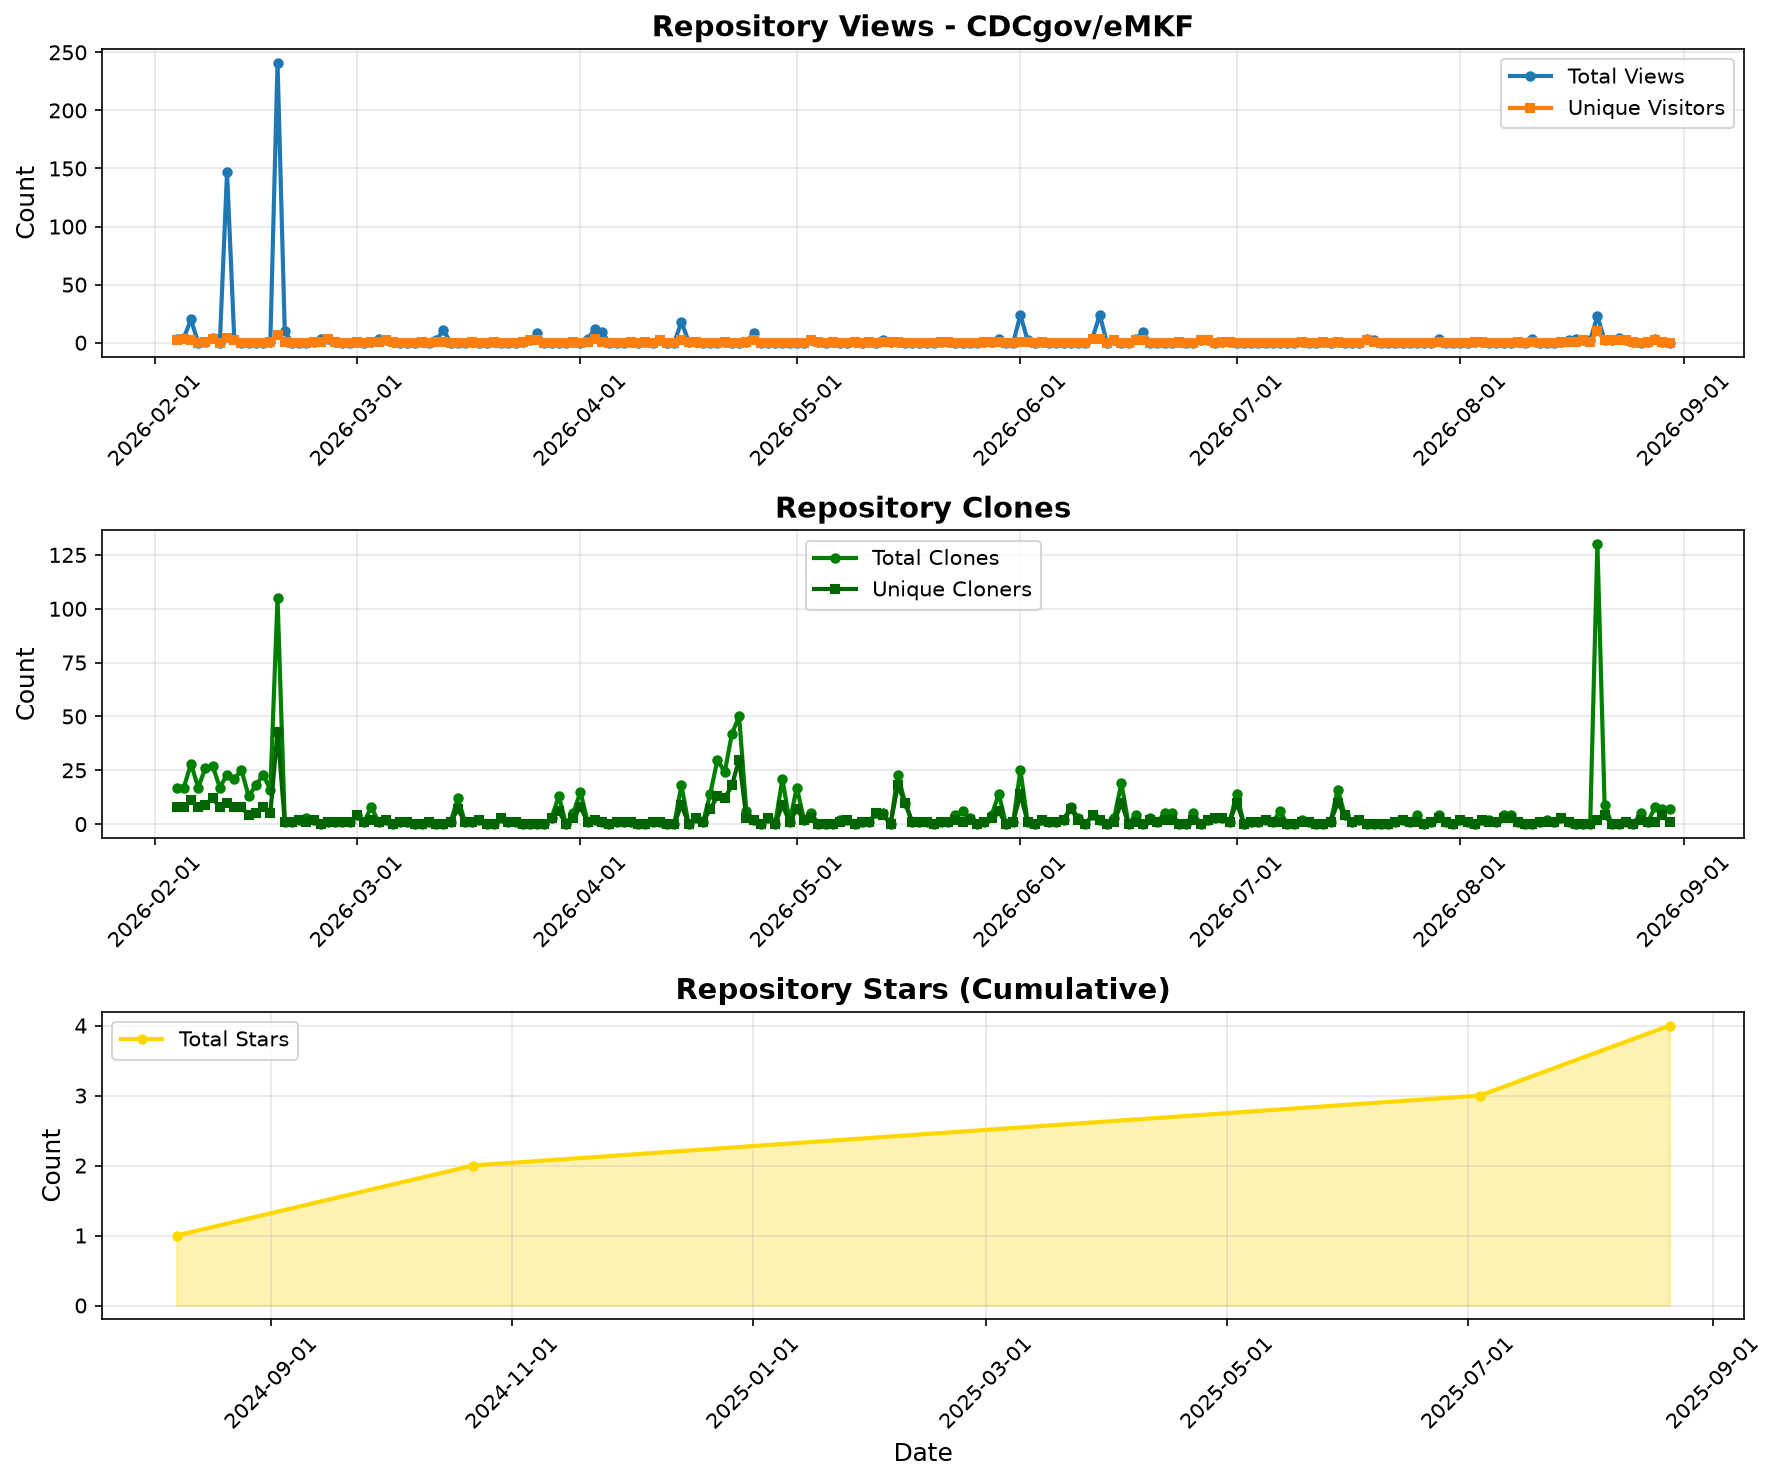
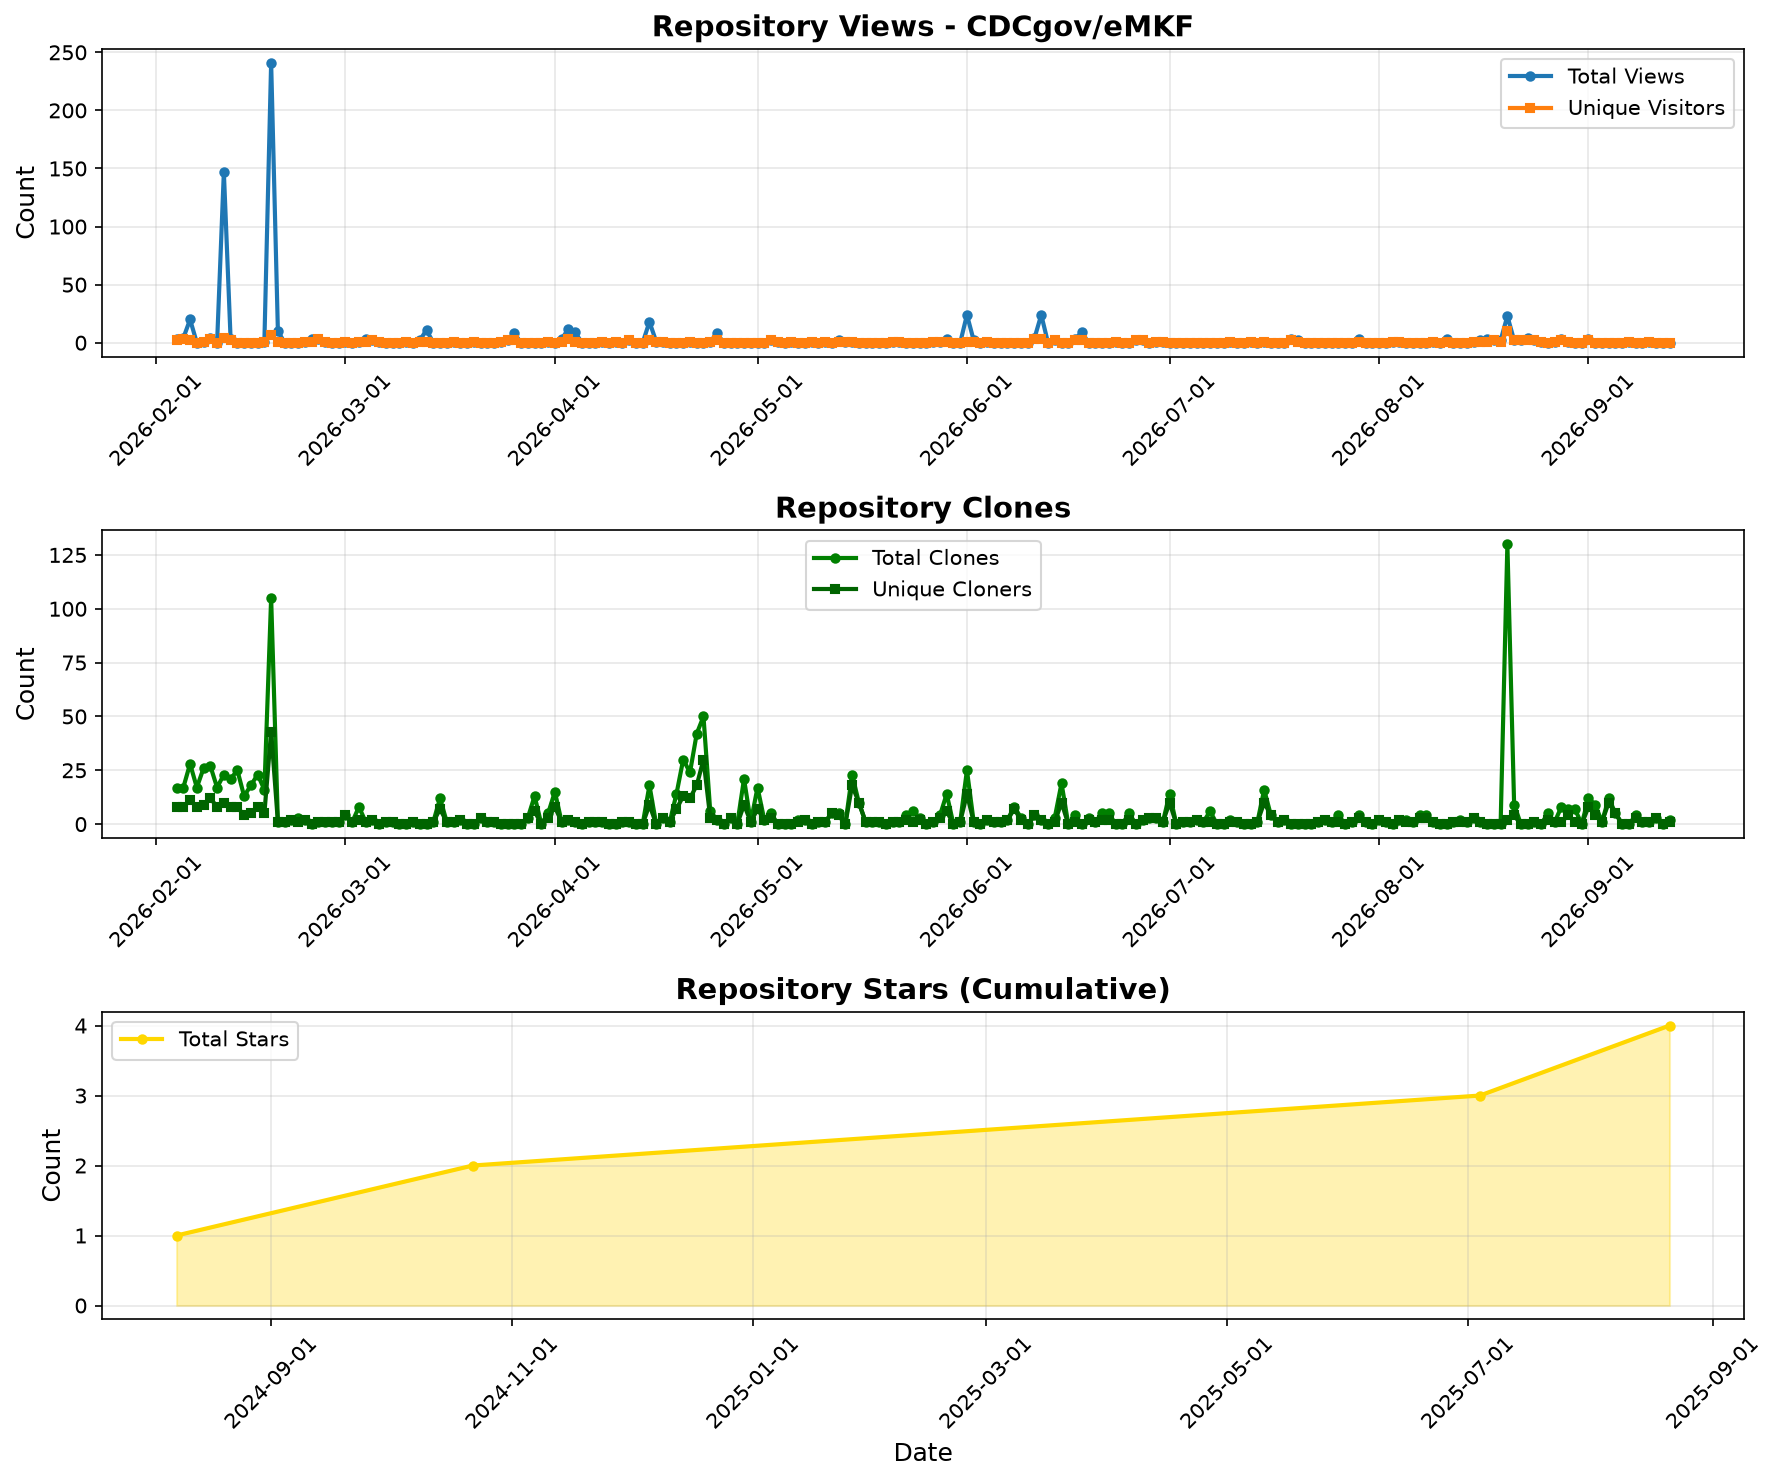
Update traffic stats [skip ci]

diff --git a/.traffic/README.md b/.traffic/README.md
@@ -1,6 +1,6 @@
 # Repository Traffic Statistics
 
-> Last updated: **September 01, 2026 at 02:28 UTC**
+> Last updated: **September 15, 2026 at 02:17 UTC**
 
 ## 📊 Traffic Overview
 
@@ -11,15 +11,15 @@
 ### Latest 14 Days
 | Metric | Total | Unique |
 |--------|-------|--------|
-| 👁 **Views** | 46 | 27 |
-| 📦 **Clones** | 168 | 16 |
+| 👁 **Views** | 5 | 4 |
+| 📦 **Clones** | 50 | 37 |
 | ⭐ **Stars** | 4 | - |
 
 ### All Time (Since Tracking Started)
 | Metric | Total | Unique | Data Points |
 |--------|-------|--------|-------------|
-| 👁 **Views** | 695 | 142 | 208 days |
-| 📦 **Clones** | 1,180 | 560 | 208 days |
+| 👁 **Views** | 700 | 146 | 222 days |
+| 📦 **Clones** | 1,230 | 597 | 222 days |
 | ⭐ **Stars** | 4 | - | 4 days |
 
 ## 📁 Available Files
